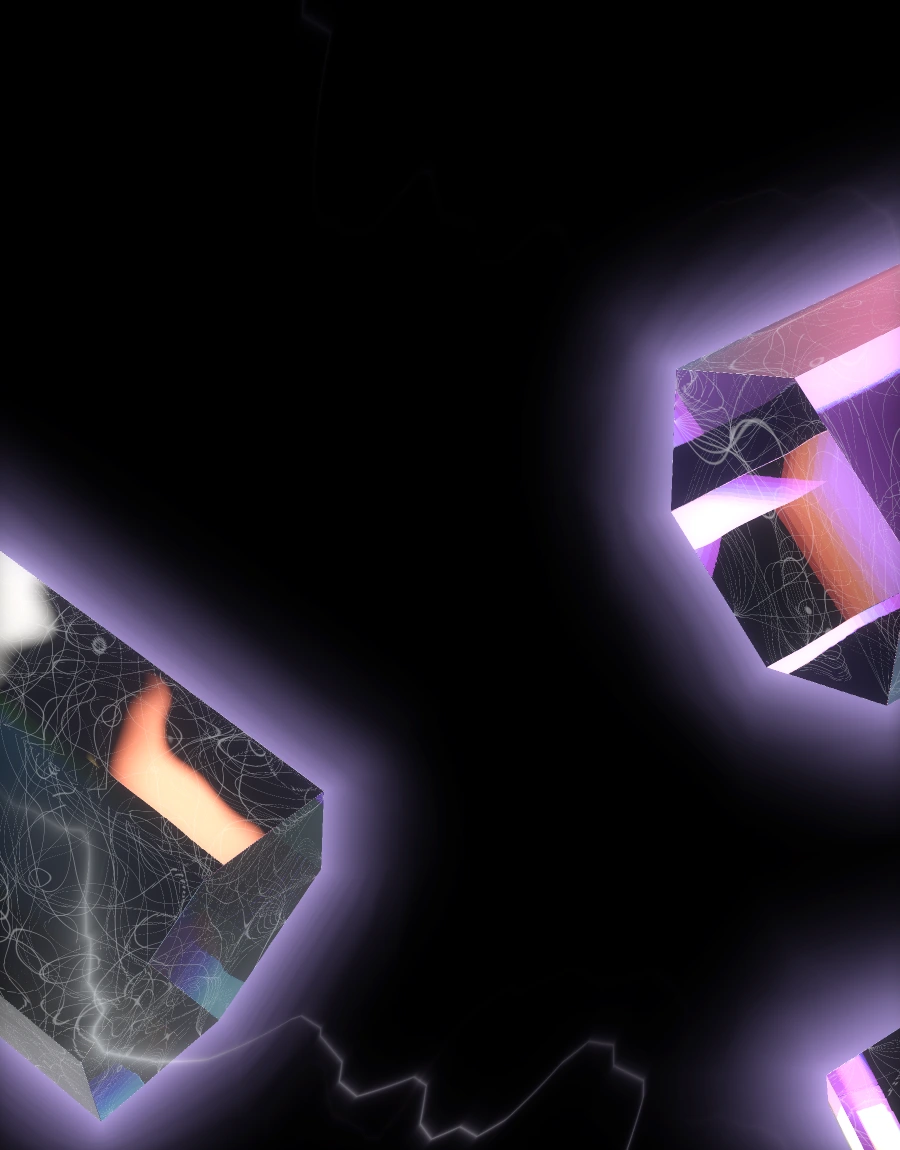
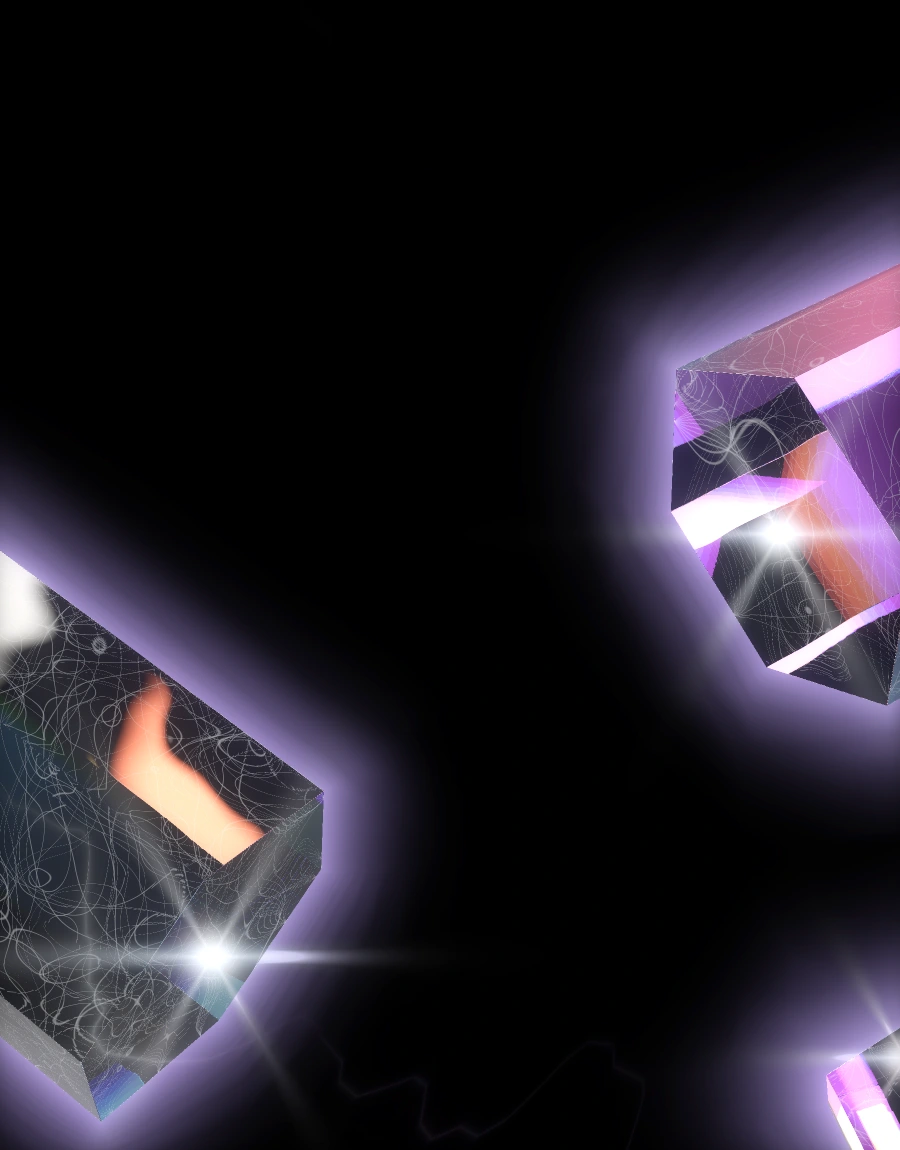
התלקחויות עדשה בקצוות הגבישים
הרפרנס לא מכיל ברקי חשמל אלא lens flare — פיצוץ כוכב עם פס
אנאמורפי אופקי. המילה 'ברק' בעברית מכסה את שניהם וקראתי אותה
קודם כחשמל.

- flare(): ליבה, פס אנאמורפי, קרני כוכב, הילה
- המוקדים נגזרים מקודקודי הגבישים בפועל
- הזיגזגים הישנים הופחתו לרמז
- הפס קוצר כדי לא לחצות את הכותרת

diff --git a/log.md b/log.md
@@ -123,3 +123,15 @@
 ### 🔴 לקח תפעולי
 **`render2.js` אבד כשהסקרצ'פאד נוקה בין סשנים.** הסקריפט שמייצר את הנכסים שהאתר מציג לא שייך לתיקייה זמנית. הוא נכתב מחדש ויושב עכשיו ב-**`tools/render-crystals.cjs`** בתוך הפרויקט, במעקב git.
 ⚠ סיומת `.cjs` ולא `.js` — ה-`package.json` מגדיר `"type":"module"`.
+
+## 2026-08-17 — התלקחויות עדשה במקום ברקי חשמל
+
+הלקוח ביקש "הברקים שיוצאים מהקריסטלים כמו בתמונה". **הסתכלתי שוב ברפרנס: מה שיוצא משם הוא לא ברק חשמלי משונן אלא `lens flare`** — פיצוץ אור בצורת כוכב עם פס אנאמורפי אופקי, בקצוות הגבישים. המילה "ברק" בעברית מכסה את שניהם, וקראתי אותה קודם כחשמל.
+
+`flare()` מרכיב ארבעה חלקים: ליבה גאוסיאנית · **פס אנאמורפי אופקי** · קרני כוכב (`pow(abs(cos(a*3)),26)`) · הילה רכה.
+🔑 **הפס האופקי הוא החתימה של עדשה אנאמורפית** — הוא מה שגורם לתמונה להיראות כמו צילום של אובייקט אמיתי ולא כמו ציור.
+
+המוקדים מחושבים מהקודקודים בפועל: `tip(c,m,h,sgn) = c + m*vec3(0,0,sgn*h)`. ⚠ `mX` ממפה עולם→מקומי, ולכן ההיפוך הוא `M*L` ולא `L*M`.
+
+הזיגזגים הישנים הופחתו ל-30% — רמז בלבד.
+⚠ הפס ההתחלתי (`0.115`) חצה את כל הפריים והפריע לכותרת. `0.050` מכיל אותו סביב הגביש.
